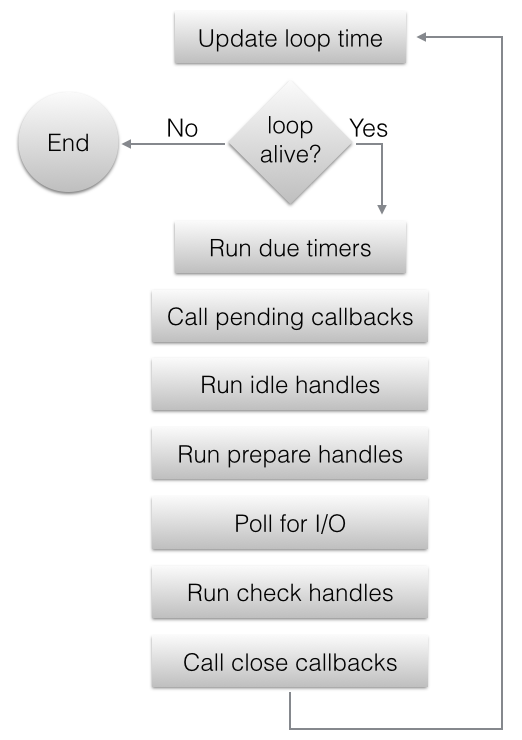
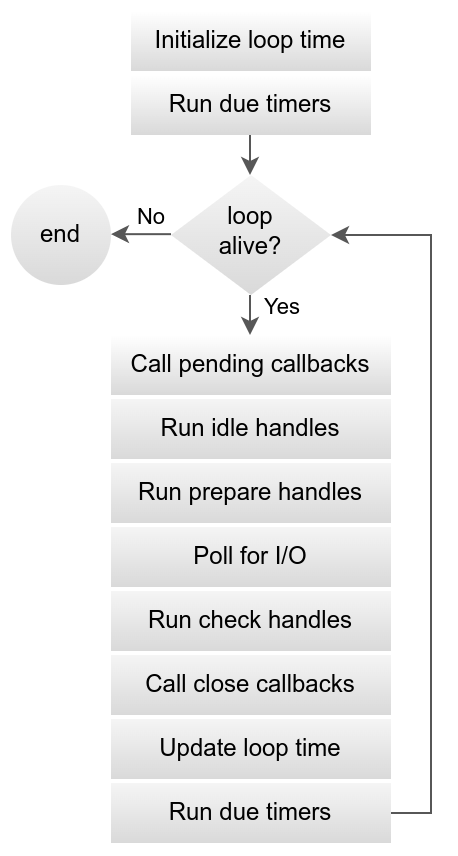
win,unix: change execution order of timers
The maximum number of times timers should run when uv_run() is called
with UV_RUN_ONCE and UV_RUN_NOWAIT is 1. Do that by conditionally
calling timers before entering the while loop when called with
UV_RUN_DEFAULT.

The reason to always run timers at the end of the while loop, instead of
at the beginning, is to help enforce the conceptual event loop model.
Which starts when entering the event provider (e.g. calling poll).

Other than only allowing timers to be processed once per uv_run()
execution, the only other noticeable change this will show is if all the
following are true:
* uv_run() is called with UV_RUN_NOWAIT or UV_RUN_ONCE.
* An event is waiting to be received when poll is called.
* Execution time between the call to uv_timer_start() and entering the
  while loop is longer than the timeout.

If all these are true, then timers that would have executed before
entering the event provider will now be executed afterward.

Fixes: https://github.com/libuv/libuv/issues/3686

diff --git a/test/test-timer.c b/test/test-timer.c
@@ -30,6 +30,7 @@ static int twice_close_cb_called = 0;
 static int repeat_cb_called = 0;
 static int repeat_close_cb_called = 0;
 static int order_cb_called = 0;
+static int timer_check_double_call_called = 0;
 static uint64_t start_time;
 static uv_timer_t tiny_timer;
 static uv_timer_t huge_timer1;
@@ -364,6 +365,44 @@ TEST_IMPL(timer_early_check) {
 
   uv_close((uv_handle_t*) &timer_handle, NULL);
   ASSERT(0 == uv_run(uv_default_loop(), UV_RUN_DEFAULT));
+
+  MAKE_VALGRIND_HAPPY(uv_default_loop());
+  return 0;
+}
+
+static void timer_check_double_call(uv_timer_t* handle) {
+  timer_check_double_call_called++;
+}
+
+TEST_IMPL(timer_no_double_call_once) {
+  uv_timer_t timer_handle;
+  const uint64_t timeout_ms = 10;
+
+  ASSERT_EQ(0, uv_timer_init(uv_default_loop(), &timer_handle));
+  ASSERT_EQ(0, uv_timer_start(&timer_handle,
+                              timer_check_double_call,
+                              timeout_ms,
+                              timeout_ms));
+  uv_sleep(timeout_ms * 2);
+  ASSERT_EQ(1, uv_run(uv_default_loop(), UV_RUN_ONCE));
+  ASSERT_EQ(1, timer_check_double_call_called);
+
+  MAKE_VALGRIND_HAPPY(uv_default_loop());
+  return 0;
+}
+
+TEST_IMPL(timer_no_double_call_nowait) {
+  uv_timer_t timer_handle;
+  const uint64_t timeout_ms = 10;
+
+  ASSERT_EQ(0, uv_timer_init(uv_default_loop(), &timer_handle));
+  ASSERT_EQ(0, uv_timer_start(&timer_handle,
+                              timer_check_double_call,
+                              timeout_ms,
+                              timeout_ms));
+  uv_sleep(timeout_ms * 2);
+  ASSERT_EQ(1, uv_run(uv_default_loop(), UV_RUN_NOWAIT));
+  ASSERT_EQ(1, timer_check_double_call_called);
 
   MAKE_VALGRIND_HAPPY(uv_default_loop());
   return 0;

diff --git a/src/win/core.c b/src/win/core.c
@@ -609,10 +609,17 @@ int uv_run(uv_loop_t *loop, uv_run_mode mode) {
   if (!r)
     uv_update_time(loop);
 
-  while (r != 0 && loop->stop_flag == 0) {
-    uv_update_time(loop);
+  /* Maintain backwards compatibility by processing timers before entering the
+   * while loop for UV_RUN_DEFAULT. Otherwise timers only need to be executed
+   * once, which should be done after polling in order to maintain proper
+   * execution order of the conceptual event loop. */
+  if (mode == UV_RUN_DEFAULT) {
+    if (r)
+      uv_update_time(loop);
     uv__run_timers(loop);
+  }
 
+  while (r != 0 && loop->stop_flag == 0) {
     can_sleep = loop->pending_reqs_tail == NULL && loop->idle_handles == NULL;
 
     uv__process_reqs(loop);
@@ -645,18 +652,8 @@ int uv_run(uv_loop_t *loop, uv_run_mode mode) {
     uv__check_invoke(loop);
     uv__process_endgames(loop);
 
-    if (mode == UV_RUN_ONCE) {
-      /* UV_RUN_ONCE implies forward progress: at least one callback must have
-       * been invoked when it returns. uv__io_poll() can return without doing
-       * I/O (meaning: no callbacks) when its timeout expires - which means we
-       * have pending timers that satisfy the forward progress constraint.
-       *
-       * UV_RUN_NOWAIT makes no guarantees about progress so it's omitted from
-       * the check.
-       */
-      uv_update_time(loop);
-      uv__run_timers(loop);
-    }
+    uv_update_time(loop);
+    uv__run_timers(loop);
 
     r = uv__loop_alive(loop);
     if (mode == UV_RUN_ONCE || mode == UV_RUN_NOWAIT)

diff --git a/src/unix/core.c b/src/unix/core.c
@@ -390,10 +390,17 @@ int uv_run(uv_loop_t* loop, uv_run_mode mode) {
   if (!r)
     uv__update_time(loop);
 
-  while (r != 0 && loop->stop_flag == 0) {
-    uv__update_time(loop);
+  /* Maintain backwards compatibility by processing timers before entering the
+   * while loop for UV_RUN_DEFAULT. Otherwise timers only need to be executed
+   * once, which should be done after polling in order to maintain proper
+   * execution order of the conceptual event loop. */
+  if (mode == UV_RUN_DEFAULT) {
+    if (r)
+      uv__update_time(loop);
     uv__run_timers(loop);
+  }
 
+  while (r != 0 && loop->stop_flag == 0) {
     can_sleep =
         QUEUE_EMPTY(&loop->pending_queue) && QUEUE_EMPTY(&loop->idle_handles);
 
@@ -424,18 +431,8 @@ int uv_run(uv_loop_t* loop, uv_run_mode mode) {
     uv__run_check(loop);
     uv__run_closing_handles(loop);
 
-    if (mode == UV_RUN_ONCE) {
-      /* UV_RUN_ONCE implies forward progress: at least one callback must have
-       * been invoked when it returns. uv__io_poll() can return without doing
-       * I/O (meaning: no callbacks) when its timeout expires - which means we
-       * have pending timers that satisfy the forward progress constraint.
-       *
-       * UV_RUN_NOWAIT makes no guarantees about progress so it's omitted from
-       * the check.
-       */
-      uv__update_time(loop);
-      uv__run_timers(loop);
-    }
+    uv__update_time(loop);
+    uv__run_timers(loop);
 
     r = uv__loop_alive(loop);
     if (mode == UV_RUN_ONCE || mode == UV_RUN_NOWAIT)

diff --git a/test/test-list.h b/test/test-list.h
@@ -233,6 +233,8 @@ TEST_DECLARE   (timer_from_check)
 TEST_DECLARE   (timer_is_closing)
 TEST_DECLARE   (timer_null_callback)
 TEST_DECLARE   (timer_early_check)
+TEST_DECLARE   (timer_no_double_call_once)
+TEST_DECLARE   (timer_no_double_call_nowait)
 TEST_DECLARE   (idle_starvation)
 TEST_DECLARE   (idle_check)
 TEST_DECLARE   (loop_handles)
@@ -842,6 +844,8 @@ TASK_LIST_START
   TEST_ENTRY  (timer_is_closing)
   TEST_ENTRY  (timer_null_callback)
   TEST_ENTRY  (timer_early_check)
+  TEST_ENTRY  (timer_no_double_call_once)
+  TEST_ENTRY  (timer_no_double_call_nowait)
 
   TEST_ENTRY  (idle_starvation)
   TEST_ENTRY  (idle_check)

diff --git a/docs/src/design.rst b/docs/src/design.rst
@@ -60,15 +60,14 @@ stages of a loop iteration:
     :align: center
 
 
-#. The loop concept of 'now' is updated. The event loop caches the current time at the start of
-   the event loop tick in order to reduce the number of time-related system calls.
+#. The loop concept of 'now' is initially set.
+
+#. Due timers are run if the loop was run with ``UV_RUN_DEFAULT``. All active timers scheduled
+   for a time before the loop's concept of *now* get their callbacks called.
 
 #. If the loop is *alive*  an iteration is started, otherwise the loop will exit immediately. So,
    when is a loop considered to be *alive*? If a loop has active and ref'd handles, active
    requests or closing handles it's considered to be *alive*.
-
-#. Due timers are run. All active timers scheduled for a time before the loop's concept of *now*
-   get their callbacks called.
 
 #. Pending callbacks are called. All I/O callbacks are called right after polling for I/O, for the
    most part. There are cases, however, in which calling such a callback is deferred for the next
@@ -101,9 +100,11 @@ stages of a loop iteration:
 #. Close callbacks are called. If a handle was closed by calling :c:func:`uv_close` it will
    get the close callback called.
 
-#. Special case in case the loop was run with ``UV_RUN_ONCE``, as it implies forward progress.
-   It's possible that no I/O callbacks were fired after blocking for I/O, but some time has passed
-   so there might be timers which are due, those timers get their callbacks called.
+#. The loop concept of 'now' is updated.
+
+#. Due timers are run. Note that 'now' is not updated again until the next loop iteration.
+   So if a timer became due while other timers were being processed, it won't be run until
+   the following event loop iteration.
 
 #. Iteration ends. If the loop was run with ``UV_RUN_NOWAIT`` or ``UV_RUN_ONCE`` modes the
    iteration ends and :c:func:`uv_run` will return. If the loop was run with ``UV_RUN_DEFAULT``
